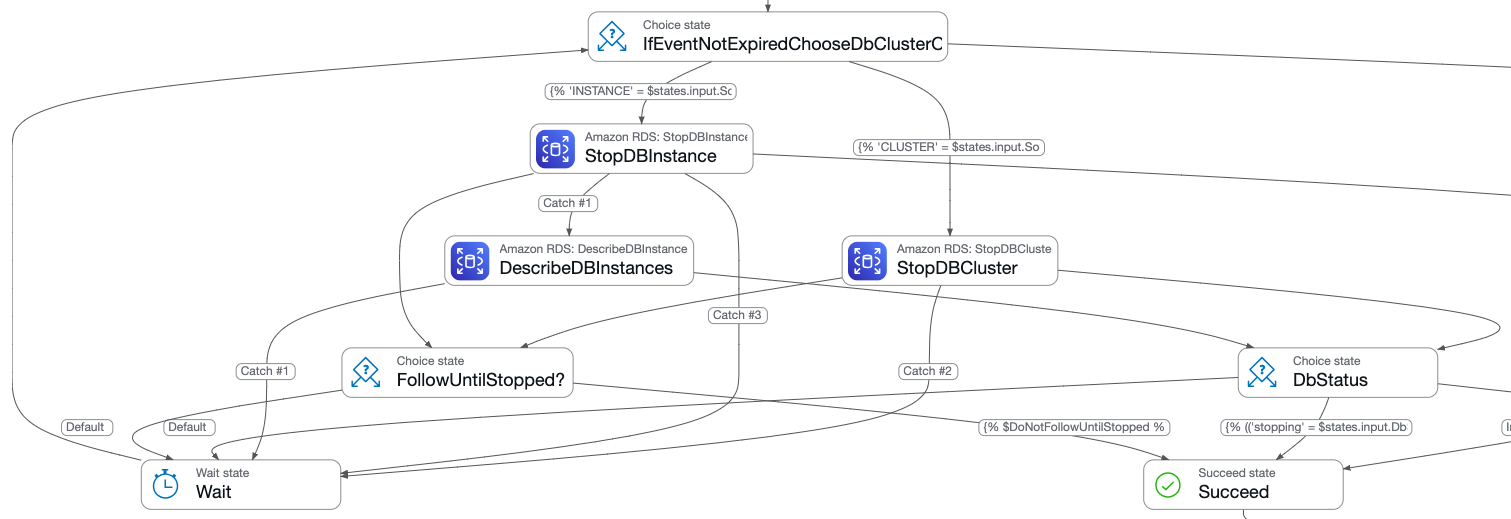
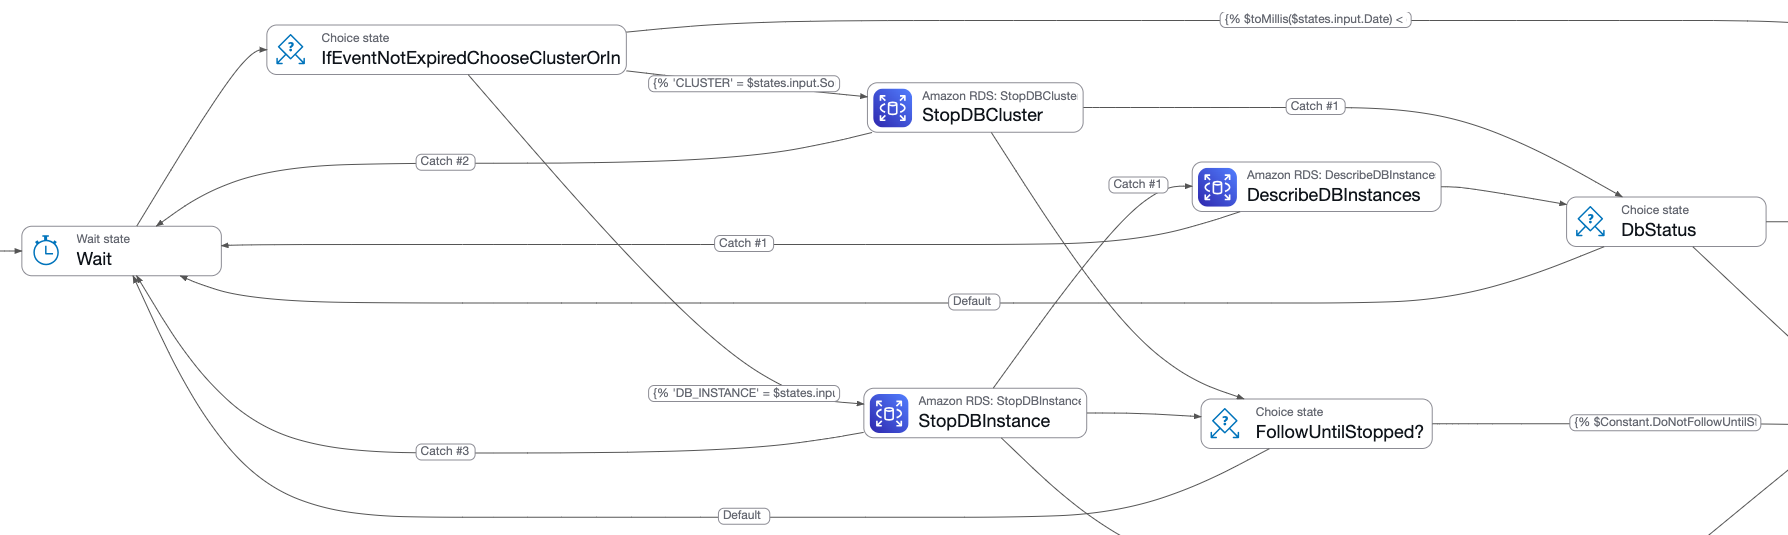
CFn, state mach, ReadMe & media: Wait 9 minutes before first DB stop request
In rare cases, AWS emits the forced database start event before the
database status changes from stopped to starting.

diff --git a/README.md b/README.md
@@ -23,7 +23,7 @@ Jump to:
 
 Click to view the simplified flowchart:
 
-[<img src="media/stay-stopped-aws-rds-aurora-flow-simple.png" alt="Call to stop the Relational Database Service or Aurora database. Case 1: If the stop request succeeds, retry. Case 2: If the Aurora cluster is in an invalid state, parse the error message to get the status. Case 3: If the RDS instance is in an invalid state, get the status by calling to describe the RDS instance. Exit if the database status from Case 2 or 3 is 'stopped' or another final status. Otherwise, retry every 9 minutes, for 24 hours." height="144" />](media/stay-stopped-aws-rds-aurora-flow-simple.png?raw=true "Simplified flowchart for [Step-]Stay Stopped, RDS and Aurora!")
+[<img src="media/stay-stopped-aws-rds-aurora-flow-simple.png" alt="After waiting 9 minutes, call to stop the Relational Database Service or Aurora database. Case 1: If the stop request succeeds, retry. Case 2: If the Aurora cluster is in an invalid state, parse the error message to get the status. Case 3: If the RDS instance is in an invalid state, get the status by calling to describe the RDS instance. Exit if the database status from Case 2 or 3 is 'stopped' or another final status. Otherwise, retry every 9 minutes, for 24 hours." height="144" />](media/stay-stopped-aws-rds-aurora-flow-simple.png?raw=true "Simplified flowchart for [Step-]Stay Stopped, RDS and Aurora!")
 
 ### Use Cases
 
@@ -76,9 +76,9 @@ View", a tabular summary. Not shown is the "Event View", a complete log of the
 payload at the start and end of each state, plus data available for use within
 the scope of one state (such as an API response).
 
-[<img src="media/step-function-debug-flow.png" alt="A 'Pass' state assigns constants and extracts the database identifier from the event. Next, a 'Choice' state chooses between database cluster or instance, if the event has not expired. Because this event is for a database instance, a 'Task' state that calls 'Stop Database Instance' is entered. The other states described are green, whereas this one is yellow. From an arrow labeled 'Catch #1', execution continues with a 'Task' state that calls 'Describe Database Instances' followed by a 'Choice' state that chooses between different database status values. Because the database is in the desired state, the 'Succeed' state is entered." height="144" />](media/step-function-debug-flow.png?raw=true "Automatically-generated Step Function state machine execution diagram")
+[<img src="media/step-function-debug-flow.png" alt="A 'Pass' state assigns constants and extracts the database identifier from the event. After a 'Wait' state, a 'Choice' state chooses between cluster or instance, if the event has not expired. Because this event is for a database instance, a 'Task' state that calls 'Stop Database Instance' is entered. The other states described are green, whereas this one is yellow. From an arrow labeled 'Catch #1', execution continues with a 'Task' state that calls 'Describe Database Instances' followed by a 'Choice' state that chooses between different database status values. Because the database is in the desired state, the 'Succeed' state is entered." height="144" />](media/step-function-debug-flow.png?raw=true "Automatically-generated Step Function state machine execution diagram")
 
-[<img src="media/step-function-debug-list.png" alt="The 'State view' for one execution of a Step Function state machine has columns for state 'Name', state 'Type', exit 'Status', 'Resource' used, state 'Duration', and portion of the execution's linear 'Timeline'. This execution traverses 6 states. Notably, the 'Stop Database Instance' state exits with a caught error. Next, the 'Describe Database Instances' state succeeds. Execution ends in the 'Succeed' state." height="144" />](media/step-function-debug-list.png?raw=true "Step Function state machine execution state list view")
+[<img src="media/step-function-debug-list.png" alt="The table for one execution of a Step Function state machine has columns for state 'Name', state 'Type', and exit 'Status'. This execution traverses 7 states. Notably, the 'Stop Database Instance' state exits with a caught error. Next, the 'Describe Database Instances' state succeeds. Execution ends in the 'Succeed' state." height="144" />](media/step-function-debug-list.png?raw=true "Step Function state machine execution state list view")
 
 This example shows an idempotence test: trying to stop an RDS database instance
 that was already stopping or stopped.
